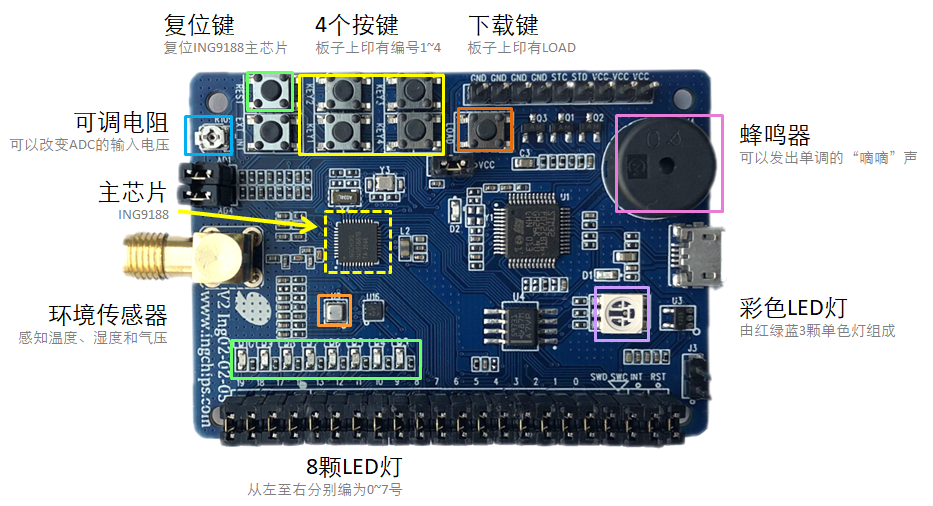
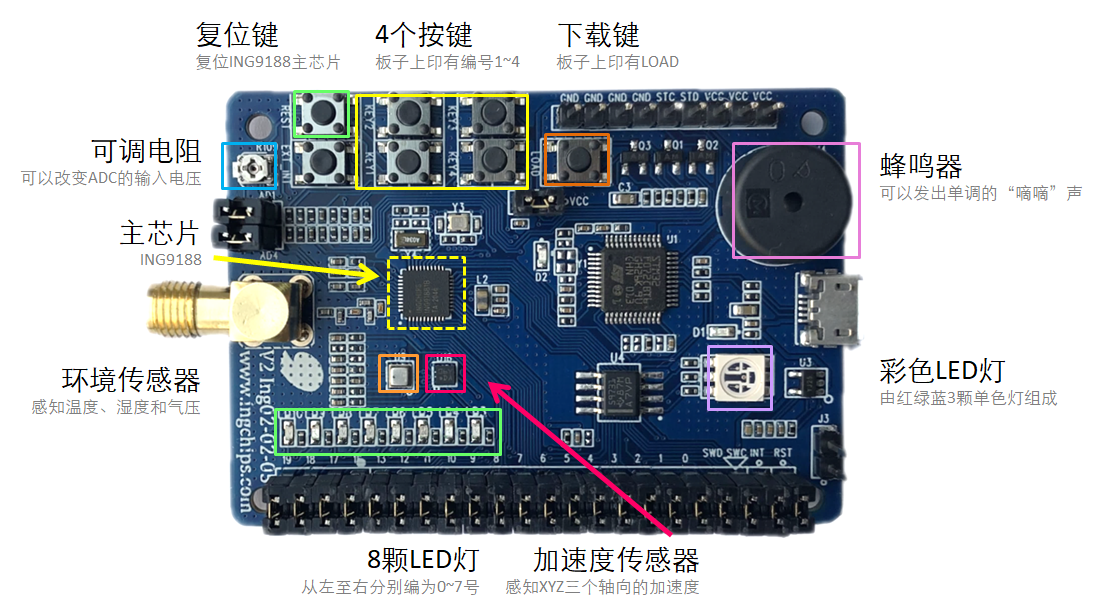
update

Changed region(s): [[0.0, 0.0296, 0.9946, 0.9783], [0.7771, 0.5929, 0.9636, 0.6818], [0.5284, 0.5929, 0.5595, 0.6225]]

diff --git a/blog/2022-03-04-ing918-playground/index.html b/blog/2022-03-04-ing918-playground/index.html
@@ -450,6 +450,46 @@ RGB 的每个分量范围为 0 ~ 255，HSL 的每个分量范围为 0 ~ 1.0。</
 
 <p>更新到开发板之后，缓缓举起开发板，看看预想的功能是否得以实现。</p>
 
+<h2 id="保持稳定">保持稳定</h2>
+
+<p>开关板上带有一个 3 轴加速度传感器，可以感知如图所示 X/Y/Z 三个轴向上的加速度，其中 Z 轴为垂直向下。将开发板平放，
+Z 轴上的加速度分量大小等于重力加速度。在机体坐标系里，绕 X、Y、Z 三个轴的旋转角度分别称为横滚角（roll）、俯仰角（pitch）、偏航角（yaw）。
+保持开发板静止，根据重力加速度在三个轴上的分量可以推算出横滚角和俯仰角。</p>
+
+<p><img src="../img/board_pitch.png" alt="" /></p>
+
+<p>现在使用俯仰角开发一个体感小游戏，目标：保持开发板水平静止。实现思路如下：</p>
+
+<ol>
+  <li>将<strong>现在的俯仰角</strong>转换为<strong>亮灯个数</strong>；</li>
+  <li>如果<strong>亮灯个数</strong>为 0，说明为水平状态，彩灯亮红色鼓励；否则熄灭彩灯；</li>
+  <li>如果角度为正数，说明机头上仰，从第 3 个开始向左逐个点亮 LED 灯；</li>
+  <li>如果角度为负数，说明机头下沉，从第 4 个开始向右逐个点亮 LED 灯；</li>
+  <li>每 50 毫秒重复执行上述步骤。</li>
+</ol>
+
+<p>使用<strong>灵敏度</strong>参数控制俯仰角向亮灯个数的转换：灵敏度越低，对角度越不敏感，游戏难度越低；反之越难。完整代码如下：</p>
+
+<div class="language-c highlighter-rouge"><div class="highlight"><pre class="highlight"><code><span class="err">定时执行</span><span class="p">([]()</span> <span class="p">{</span>
+    <span class="err">变量</span> <span class="err">灵敏度</span> <span class="o">=</span> <span class="mi">0</span><span class="p">.</span><span class="mi">5</span><span class="p">;</span>
+    <span class="err">变量</span> <span class="err">亮灯个数</span> <span class="o">=</span> <span class="p">(</span><span class="err">整数</span><span class="p">)(</span><span class="err">现在的俯仰角</span> <span class="o">*</span> <span class="err">灵敏度</span><span class="p">);</span>
+    <span class="err">如果</span> <span class="p">(</span><span class="err">亮灯个数</span> <span class="o">==</span> <span class="mi">0</span><span class="p">)</span> <span class="p">{</span>
+        <span class="err">设置红绿蓝</span><span class="p">(</span><span class="mi">50</span><span class="p">,</span> <span class="mi">0</span><span class="p">,</span> <span class="mi">0</span><span class="p">);</span>
+        <span class="err">关灯</span><span class="p">;</span>
+    <span class="p">}</span> <span class="err">否则</span> <span class="p">{</span>
+        <span class="err">设置红绿蓝</span><span class="p">(</span><span class="mi">0</span><span class="p">,</span> <span class="mi">0</span><span class="p">,</span> <span class="mi">0</span><span class="p">);</span>
+        <span class="err">控制各灯</span><span class="p">([</span><span class="o">=</span><span class="p">](</span><span class="err">变量</span> <span class="err">序号</span><span class="p">)</span> <span class="p">{</span>
+            <span class="err">如果</span> <span class="p">(</span><span class="err">亮灯个数</span> <span class="o">&gt;</span> <span class="mi">0</span><span class="p">)</span>
+                <span class="err">返回</span> <span class="p">(</span><span class="mi">4</span> <span class="o">-</span> <span class="err">亮灯个数</span> <span class="o">&lt;=</span> <span class="err">序号</span><span class="p">)</span> <span class="err">并且</span> <span class="p">(</span><span class="err">序号</span> <span class="o">&lt;=</span> <span class="mi">3</span><span class="p">);</span>
+            <span class="err">否则</span>
+                <span class="err">返回</span> <span class="p">(</span><span class="mi">4</span> <span class="o">&lt;=</span> <span class="err">序号</span><span class="p">)</span> <span class="err">并且</span> <span class="p">(</span><span class="err">序号</span> <span class="o">&lt;=</span> <span class="mi">3</span> <span class="o">-</span> <span class="err">亮灯个数</span><span class="p">);</span>
+        <span class="p">});</span>
+    <span class="p">}</span>
+<span class="p">},</span> <span class="mi">50</span><span class="p">);</span>
+</code></pre></div></div>
+
+<p><strong>灵敏度</strong>取 0.5，表示大概每偏 2 度多亮 1 个灯，难度适中。</p>
+
 <h2 id="蓝牙">蓝牙</h2>
 
 <p>当然，一款蓝牙芯片肯定可以<strong>设置蓝牙名称</strong>：</p>
@@ -479,7 +519,7 @@ RGB 的每个分量范围为 0 ~ 255，HSL 的每个分量范围为 0 ~ 1.0。</
 <p>更新开发板之后，用蓝牙工具（ING BLE、LightBlue、nRF Connect 等）连接到“我的蓝牙”这个设备，向
 “222…”这个特征多次写入任意数值，可观察到灯在亮灭交替。</p>
 
-<p>可以对写入的数值做出响应，比如下面的例子：</p>
+<p>可以响应写入的数值，比如下面的例子：</p>
 
 <div class="language-c highlighter-rouge"><div class="highlight"><pre class="highlight"><code><span class="err">设置蓝牙名称</span><span class="p">(</span><span class="s">"我的蓝牙"</span><span class="p">);</span>
 <span class="err">定义服务</span><span class="p">(</span><span class="s">"11111111"</span><span class="p">);</span>
@@ -495,10 +535,29 @@ RGB 的每个分量范围为 0 ~ 255，HSL 的每个分量范围为 0 ~ 1.0。</
 <p>一个完整的自定义编号长度为 16 字节，从图中看出后面的数字不是我们指定的，这是有意为之：只要前面的几个数字容易辨认、区分即可，
 其它数字无所谓。</p>
 
+<p>下面的例子演示了如何从外部读取特征的数值。我们把数据的长度定为 2，第 1 个数值为摄氏温度的整数部分，第 2 个数值为随机数。</p>
+
+<div class="language-c highlighter-rouge"><div class="highlight"><pre class="highlight"><code><span class="err">设置蓝牙名称</span><span class="p">(</span><span class="s">"我的蓝牙"</span><span class="p">);</span>
+    <span class="err">定义服务</span><span class="p">(</span><span class="s">"11111111"</span><span class="p">);</span>
+    <span class="err">定义服务特征</span><span class="p">(</span><span class="s">"33333333"</span><span class="p">,</span>
+        <span class="p">[]()</span> <span class="p">{</span> <span class="err">返回</span> <span class="mi">2</span><span class="p">;</span> <span class="p">},</span>
+        <span class="p">[](</span><span class="err">变量</span> <span class="err">数据</span><span class="p">,</span> <span class="err">变量</span> <span class="err">长度</span><span class="p">)</span> <span class="p">{</span>
+            <span class="err">数据</span><span class="p">[</span><span class="mi">0</span><span class="p">]</span> <span class="o">=</span> <span class="p">(</span><span class="err">整数</span><span class="p">)</span><span class="err">现在的温度</span><span class="p">;</span>
+            <span class="err">数据</span><span class="p">[</span><span class="mi">1</span><span class="p">]</span> <span class="o">=</span> <span class="err">随机数</span><span class="p">;</span>
+        <span class="p">}</span>
+    <span class="p">);</span>
+</code></pre></div></div>
+
+<p>使用蓝牙工具连接到“我的蓝牙”这个设备，多次读取“333…”这个特征，可观察到这两个值：</p>
+
+<p><img src="../img/read_char_333.jpg" alt="" /></p>
+
+<p>图中的温度值“15”为 16 进制，等于十进制的 21。</p>
+
 <h2 id="使用英语">使用英语</h2>
 
 <p>上面的演示代码都是用中文编写，可能略感“违和”。Playground 里同样可以使用英语编程，<code class="highlighter-rouge">demo/en.md</code>
-文件提供了以上演示代码的英语版本。</p>
+为以上演示代码的英语版本。</p>
 
       </div><!-- .post-content -->
     </div><!-- .inner-md -->
